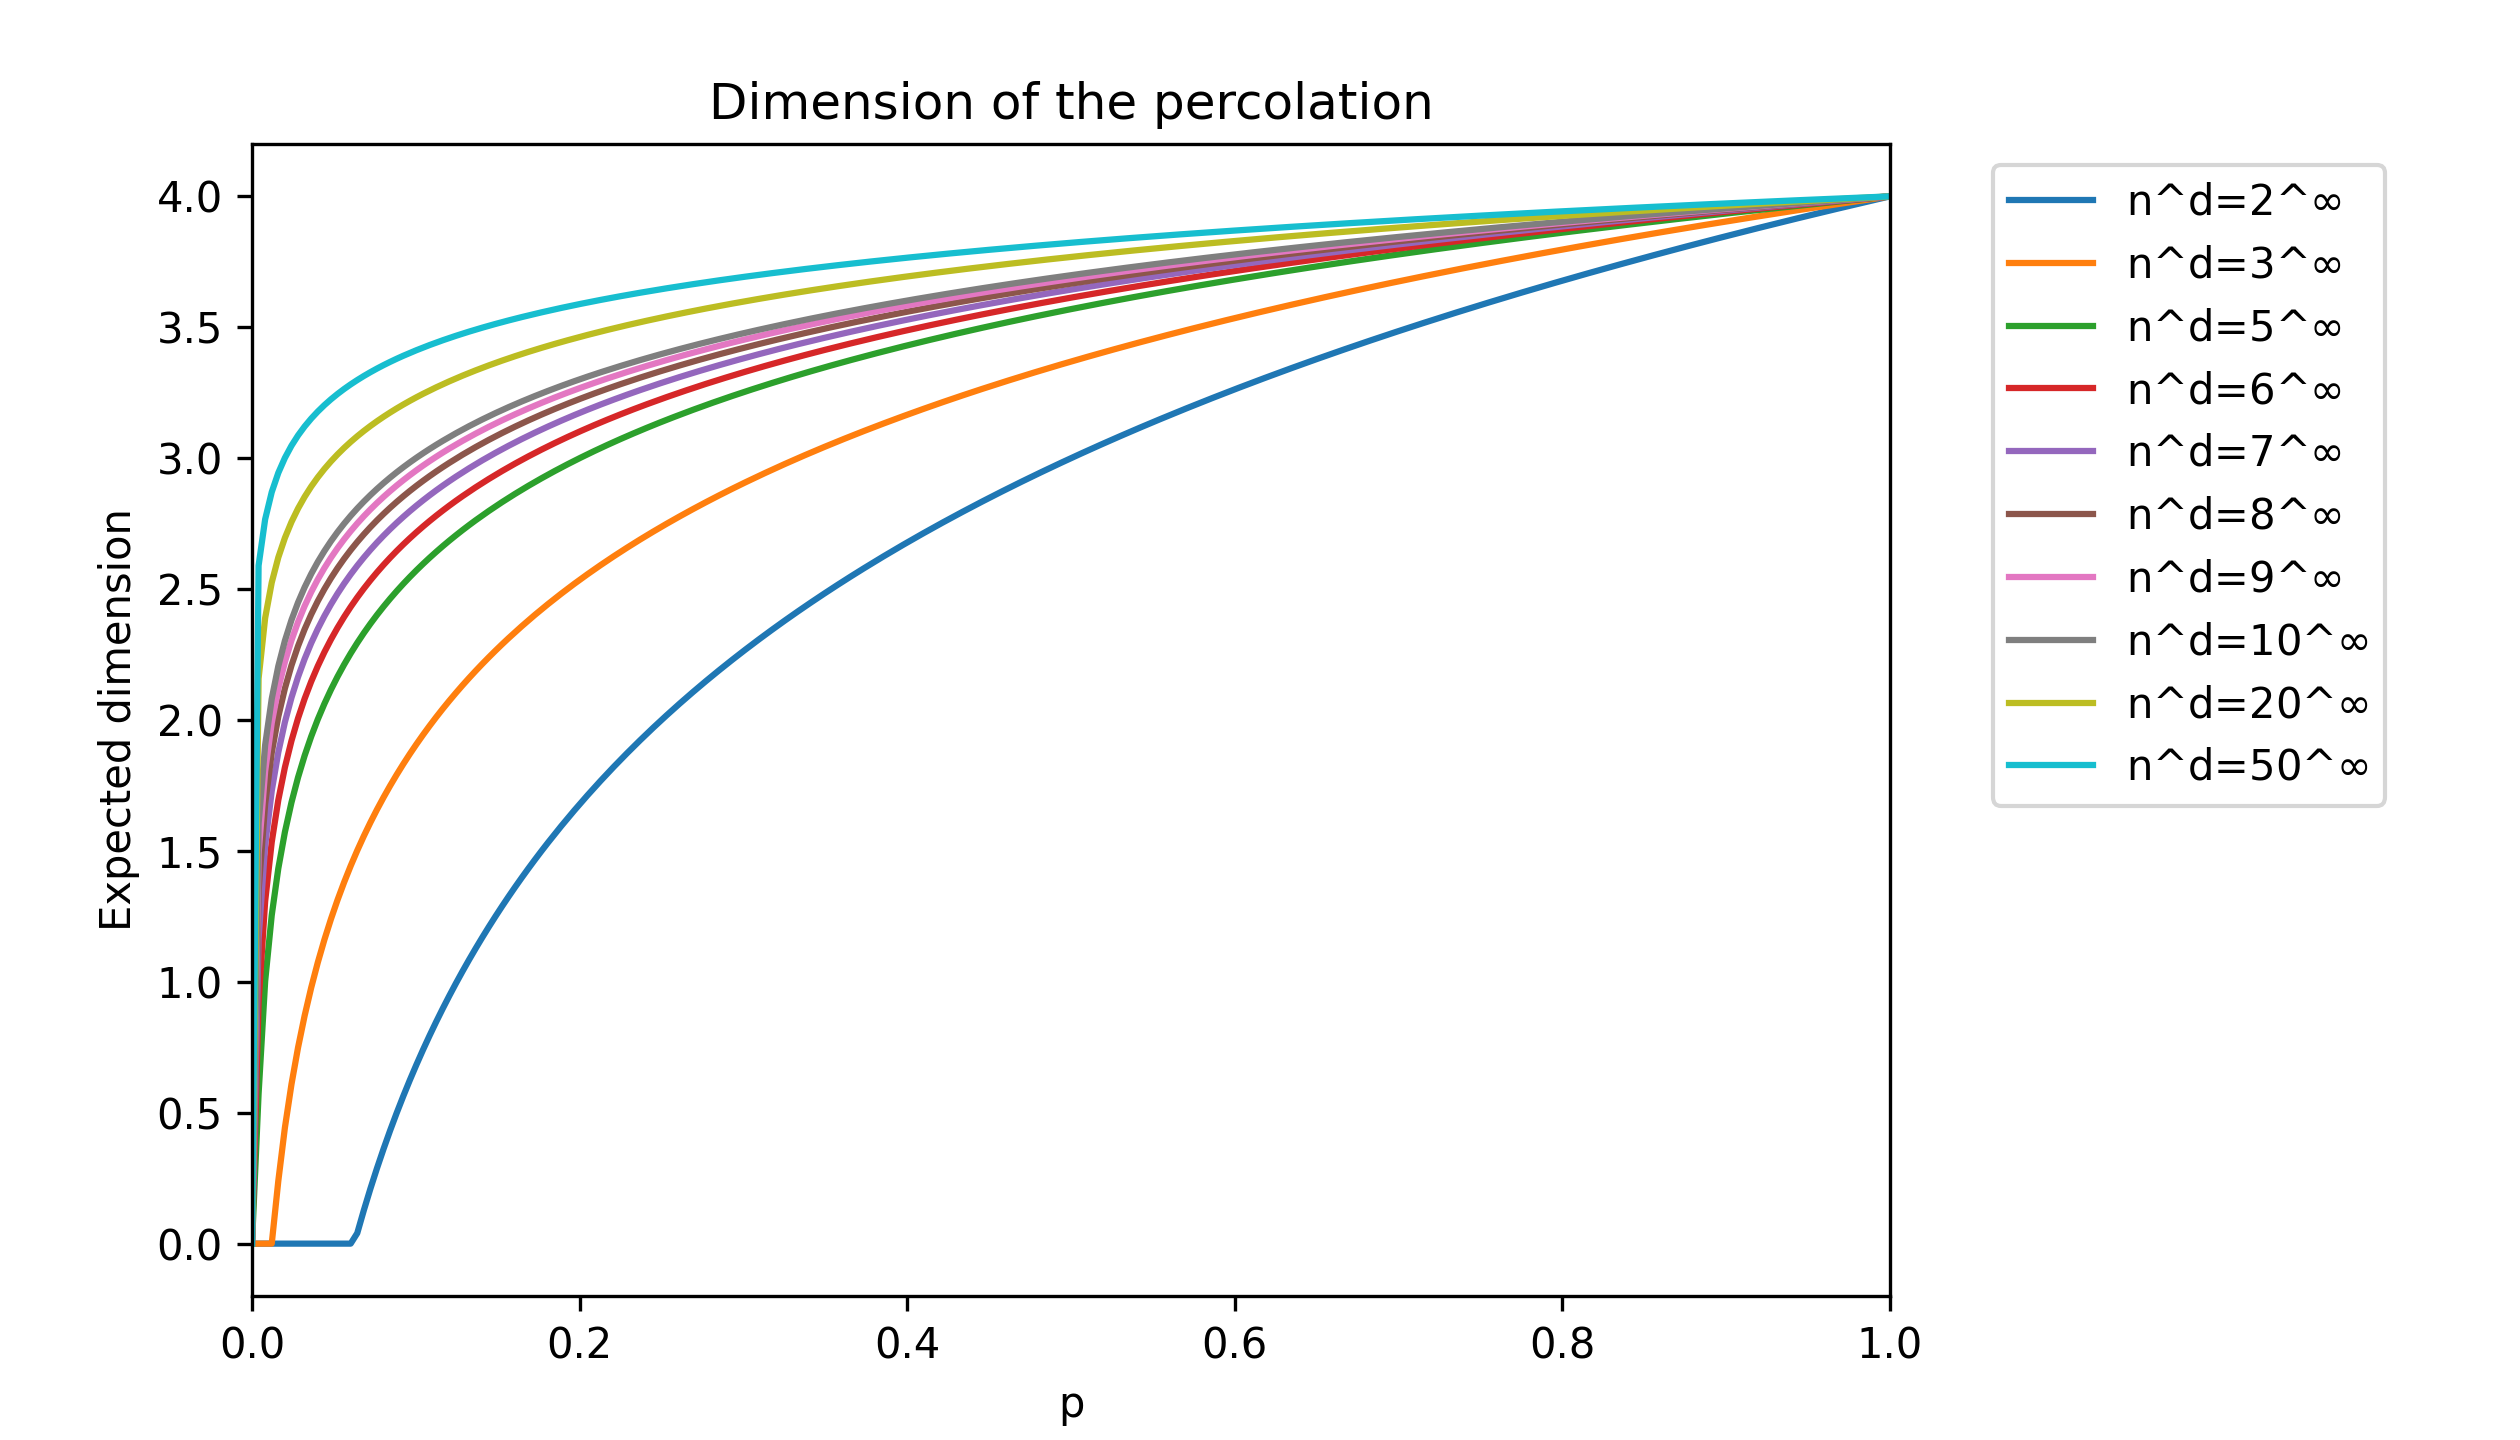
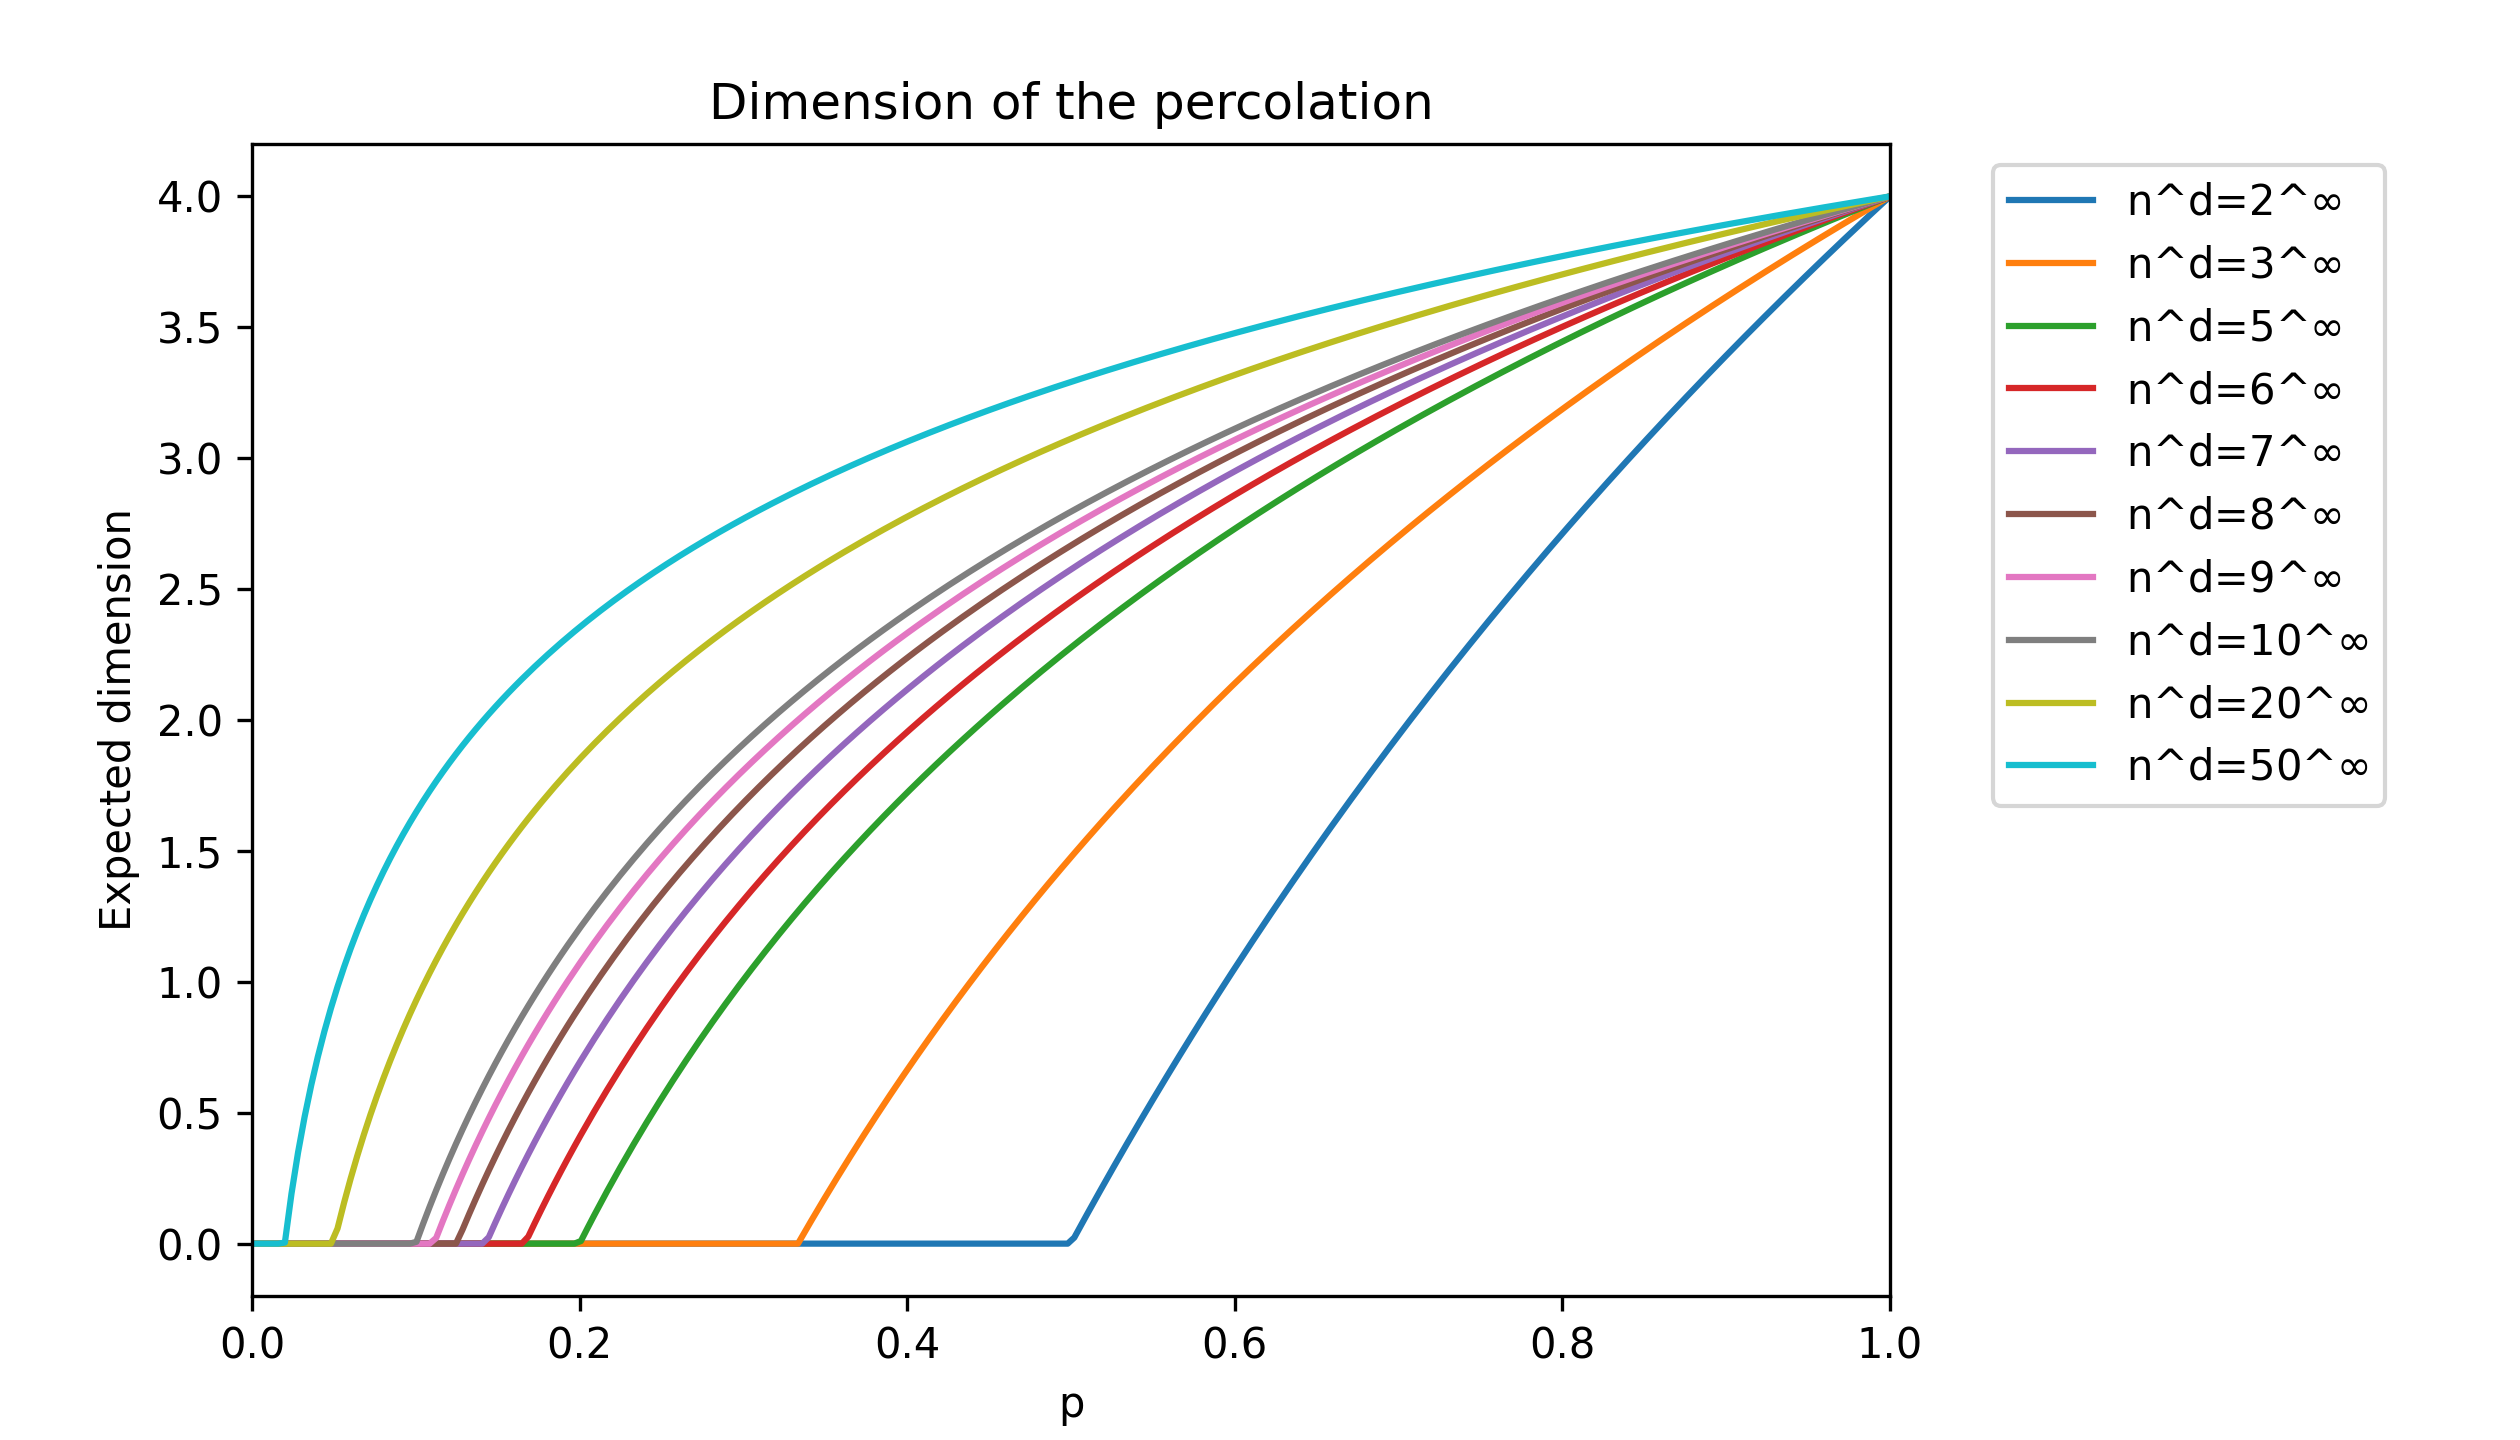
corrected typo in formula

diff --git a/data_visualization/dimension.py b/data_visualization/dimension.py
@@ -5,7 +5,7 @@ for D in range(1,6):
     plt.figure(figsize=[8.4, 4.8])
     def plot_dimension(n, c):
         p = np.linspace(0,1,250)
-        dim = np.maximum(D + (np.log(p) / np.log(n)), 0*p)
+        dim = np.maximum(D*(1 + (np.log(p)/np.log(n))), 0*p)
         
         plt.plot(p, dim, label='n^d='+str(n)+'^$\infty$', c='C'+str(c))
 
